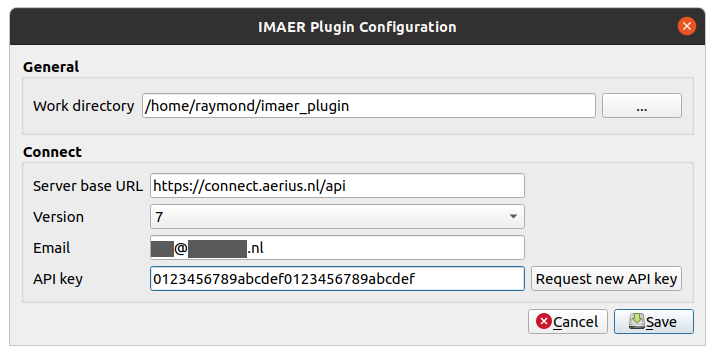
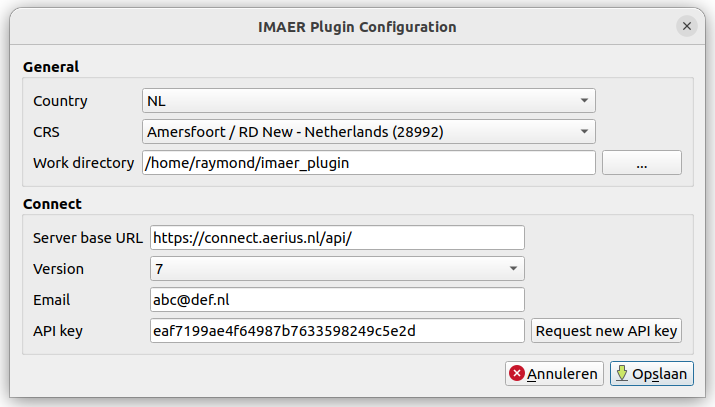
Updated docs

diff --git a/docs/09_configuration.md b/docs/09_configuration.md
@@ -17,8 +17,23 @@ Some plugin configurations can be set in the Configuration dialog. Most of them 
 
 ![dialog](img/configuration_dlg.png)
 
+## General
+
+### Country:
+The country where you are using AERIUS. Different countries use different versions 
+and sub sets of IMAER.
+
+### CRS:
+Coordinate reference system your IMAER data should use.
+
 ### Work directory:
-This is the default local directory on your system. Opening and saving
+This is the default local directory on your system where the plugin will download
+and save files to. Make sure you have write access to this directory.
+
+## Connect
+
+These settings are only needed if you want to use the plugin for AERIUS Connect 
+functionality. When the settings are right, the 
 
 ### Server base URL:
 Location of the Connect API URL. Should by default point to the current production
@@ -28,16 +43,16 @@ Some examples:
 * https://connect.aerius.nl/api
 
 ### Version:
-Connect version. The version is displayed on the Connect swagger page. Just visit
+Connect server version. The version is displayed on the Connect swagger page. Just visit
 the Server base URL with your web browser to find it.
 
 ### Email:
 The email address you want to use for Connect. This is also your account name, and
-the address that will receive notifications.
+the address that will receive notifications when your calculations are completed.
 
 ### API Key:
-Connect API key that you will receive by email after requisting it. You can clicked
-the `Request new API key` button to ge (a new) one.
+Connect API key that you will receive by e-mail after requesting it. You can click
+the `Request new API key` button to get (a new) one.
 
 After receiving the new API key in your mailbox, simply copy the 32 character key
 to the configuration screen.
@@ -45,3 +60,9 @@ to the configuration screen.
 ## Save
 When saving the settings, the plugin will attempt to make a connection by firing
 a few rquests. They will also update the content of the connect plugin dialogs.
+
+### Tip
+
+In case you are running into connection problems, open the Debug/Developer panel in QGIS
+(F12) to inspect the internet traffic between QGIS and Connect.
+

diff --git a/docs/03_extract_gml_from_pdf.md b/docs/03_extract_gml_from_pdf.md
@@ -15,7 +15,7 @@
 
 ## Introduction
 
-AERIUS Calculator provides downloading a PDF file which contains emission sources in a data block. This function helps you extracting that data from the PDF and save it to a GML file.
+AERIUS Calculator provides downloading a PDF file which contains emission sources in a data block. This function helps you extracting that data from the PDF and save it to one or more GML files.
 
 ## Howto
 
@@ -25,10 +25,5 @@ AERIUS Calculator provides downloading a PDF file which contains emission source
 ![dialog](img/extract_gml_from_pdf_dlg.png)
 
 After pressing `open`, the plugin will save the extracted data to a GML file with the
-same file name but `.gml` for the extension. A link to the file will be displayed in
+same file name but `.gml` for the extension. A link to the file(s) will be displayed in
 the message bar on top of your map. If anything goes wrong, an error will be displayed there.
-
-## Limitations
-
-* The plugin can only extract 1 single GML file. PDF's containing more than
-1 GML file have not been testen and will probably not work.

diff --git a/docs/08_connect_jobs.md b/docs/08_connect_jobs.md
@@ -42,14 +42,12 @@ to the clipboard.
 
 For starting a calculaion you will need to set some input parameters:
 
-* Situation: REFERENCE, PROPOSED, TEMPORARY or NETTING
+* Situation: DEFINED_BY_FILE, REFERENCE, PROPOSED, TEMPORARY
 * Name: Any name for your own reference. This will be displayed in the table
-* Year:
 * Type:
   * WNB_RECEPTORS: Normal calculation on all default Nature Area receptors.
   * CUSTOM_POINTS: Pick one of your self uploaded receptor sets
-* Send Email: Check if you wish to receive an email notification when the calculation
-  has finished
+* Send e-mail when calculation is completed: Check if you wish to receive an email notification when the calculation has finished
 
 Click the `Calculate` button for sending your data to Connect and start the calculation.
 

diff --git a/docs/04_generate_calc_input.md b/docs/04_generate_calc_input.md
@@ -56,8 +56,8 @@ create your own software to connect to it.
 
 ## Remarks
 
-* The current version of the generated GML file is `IMAER 4.0.1`
+* The current version of the generated GML file is `IMAER 5.1`
 * IMAER does not support multi geometry types (like MultiLineString) and will try to
-convert your data in case it has a multi type, as single geometry data is often staored as multi geometry in GIS.
-* Your data must contain the exact values that should end up in the GML file. The plugin
+convert your data in case it has a multi type, as single geometry data is often stored as multi geometry in GIS.
+* Your attribute data must contain the exact values that should end up in the GML file. The plugin
 does not attempt to convert values in some smart way.

diff --git a/docs/01_import_calc_results.md b/docs/01_import_calc_results.md
@@ -34,4 +34,4 @@ You can use all standard QGIS functionality for viewing, analysing and editing t
 * This functionality can only import calculation results on **receptor points** that
 contain hexagon information. Results on **calculation points** are skipped during the
 import.
-* Should work on IMAER versions 2.2, 3.1 and 4.0 data.
+* Should work on IMAER versions 2, 3, 4 and 5 data.
